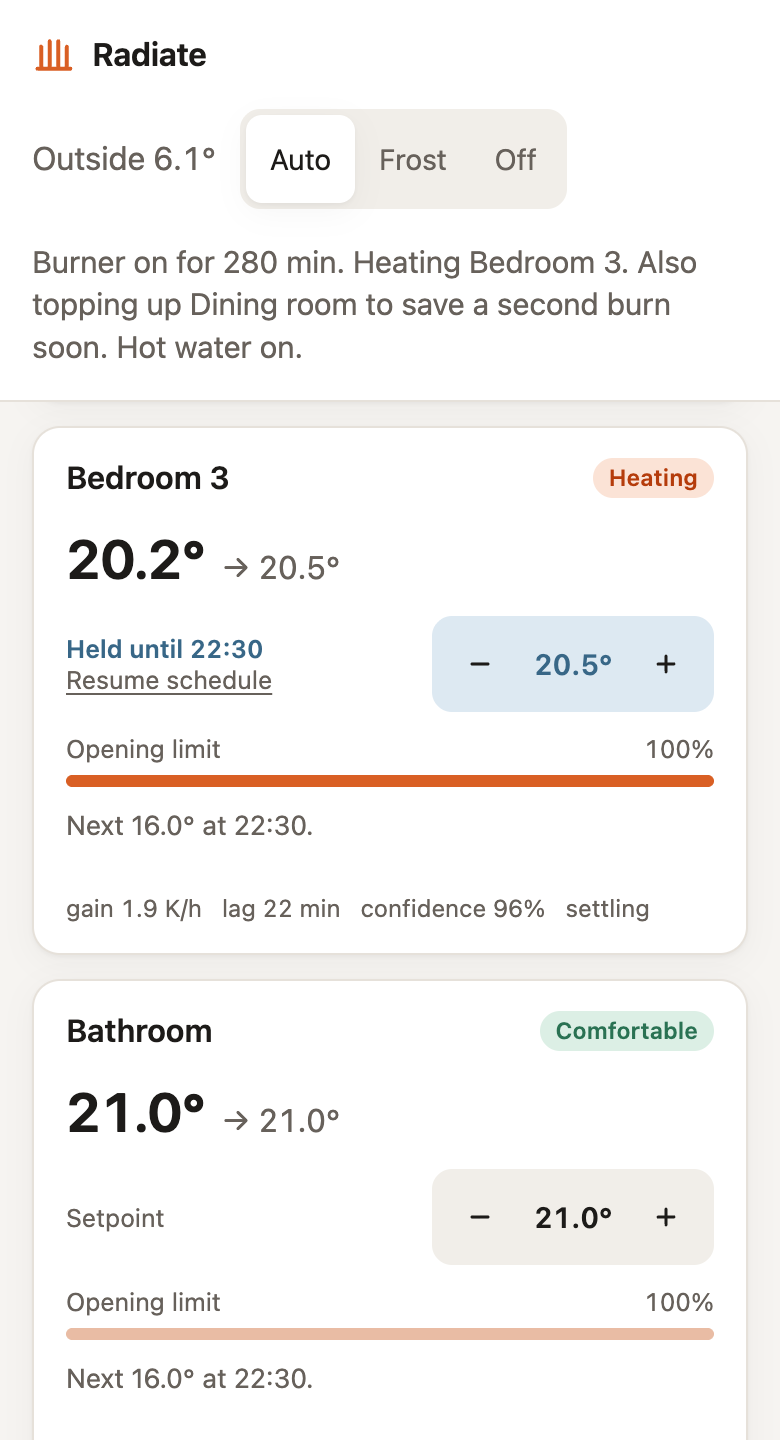
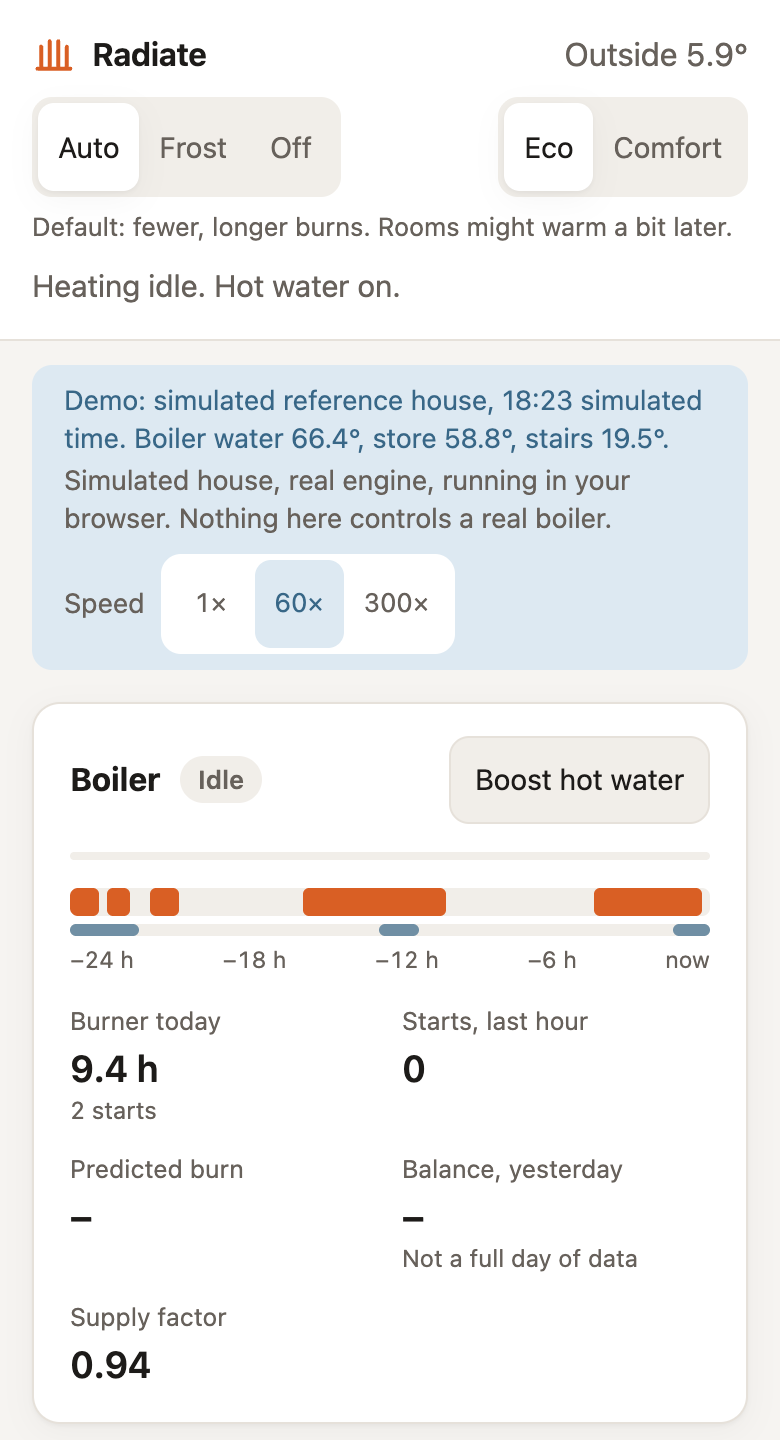
Refresh the UI screenshots for the demand mode control
The header now carries Eco and Comfort and the note under them, on the server UI, the demo site and at phone width.

diff --git a/README.md b/README.md
@@ -8,7 +8,7 @@ Plumbers balance a heating system by hand, turning the lockshield valve on each 
 
 ## Try it
 
-![Radiate web UI running the simulated house: the burner is topping up the toilet so it will not need a second burn soon, and Bedroom 3 is held at 16.5° until 06:30](docs/images/ui-demo.png)
+![Radiate web UI running the simulated house in Eco, the default demand mode: the burner is heating four rooms and the Lounge fire is lit](docs/images/ui-demo.png)
 
 Try the [online demo](https://jamesagarside.github.io/radiate/): a simulated 9-radiator house running the real engine in your browser. Nothing to install, and nothing leaves your browser.
 
